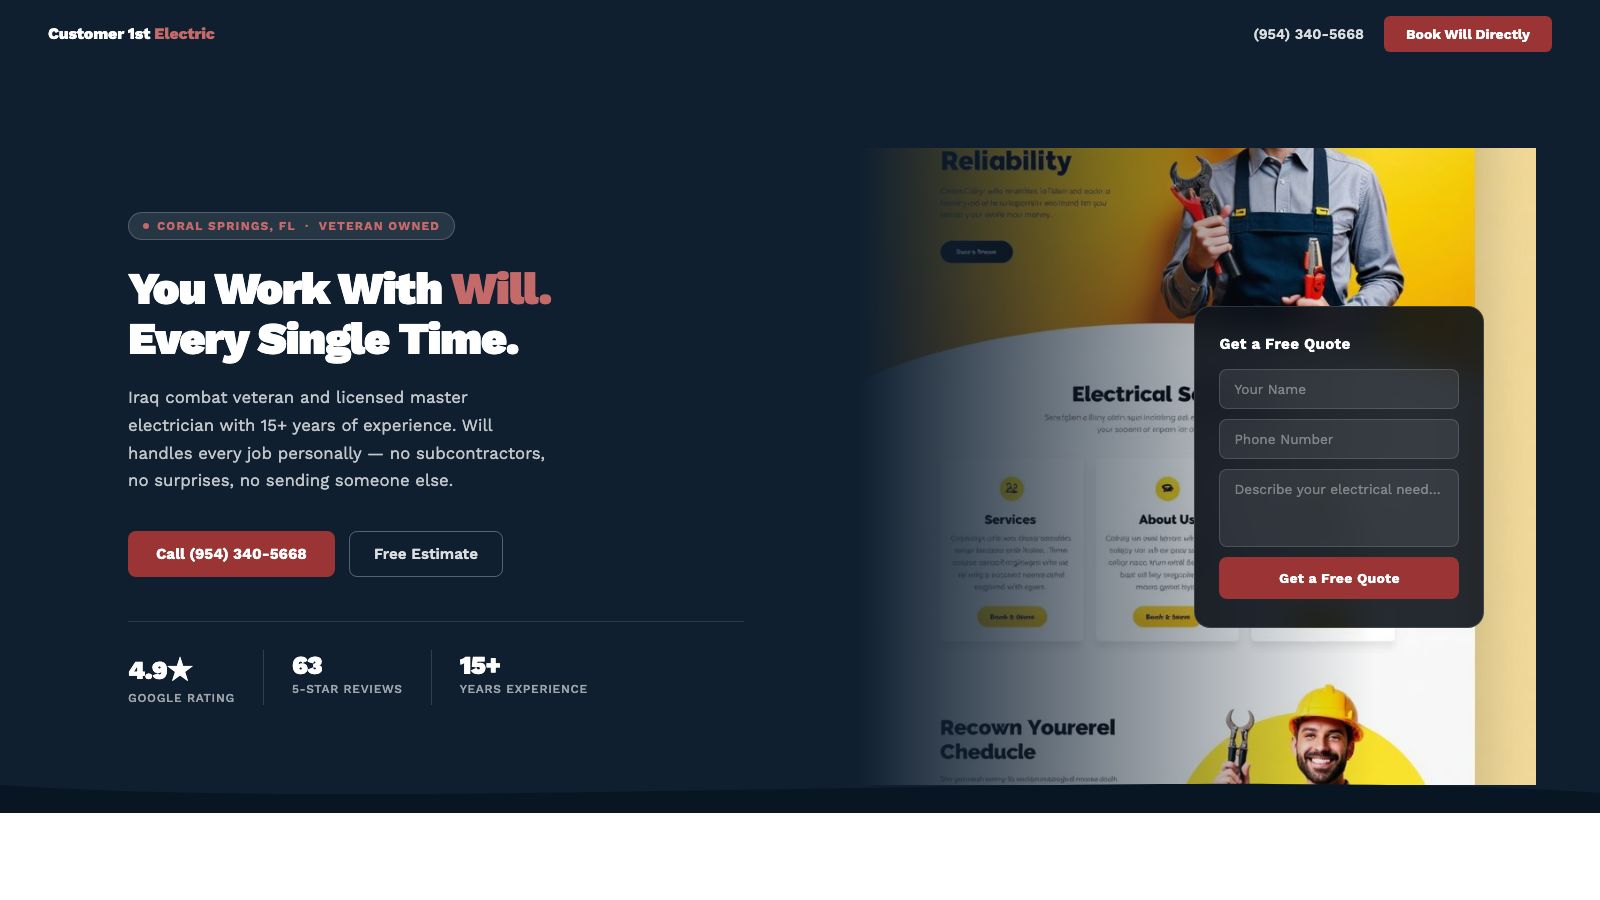
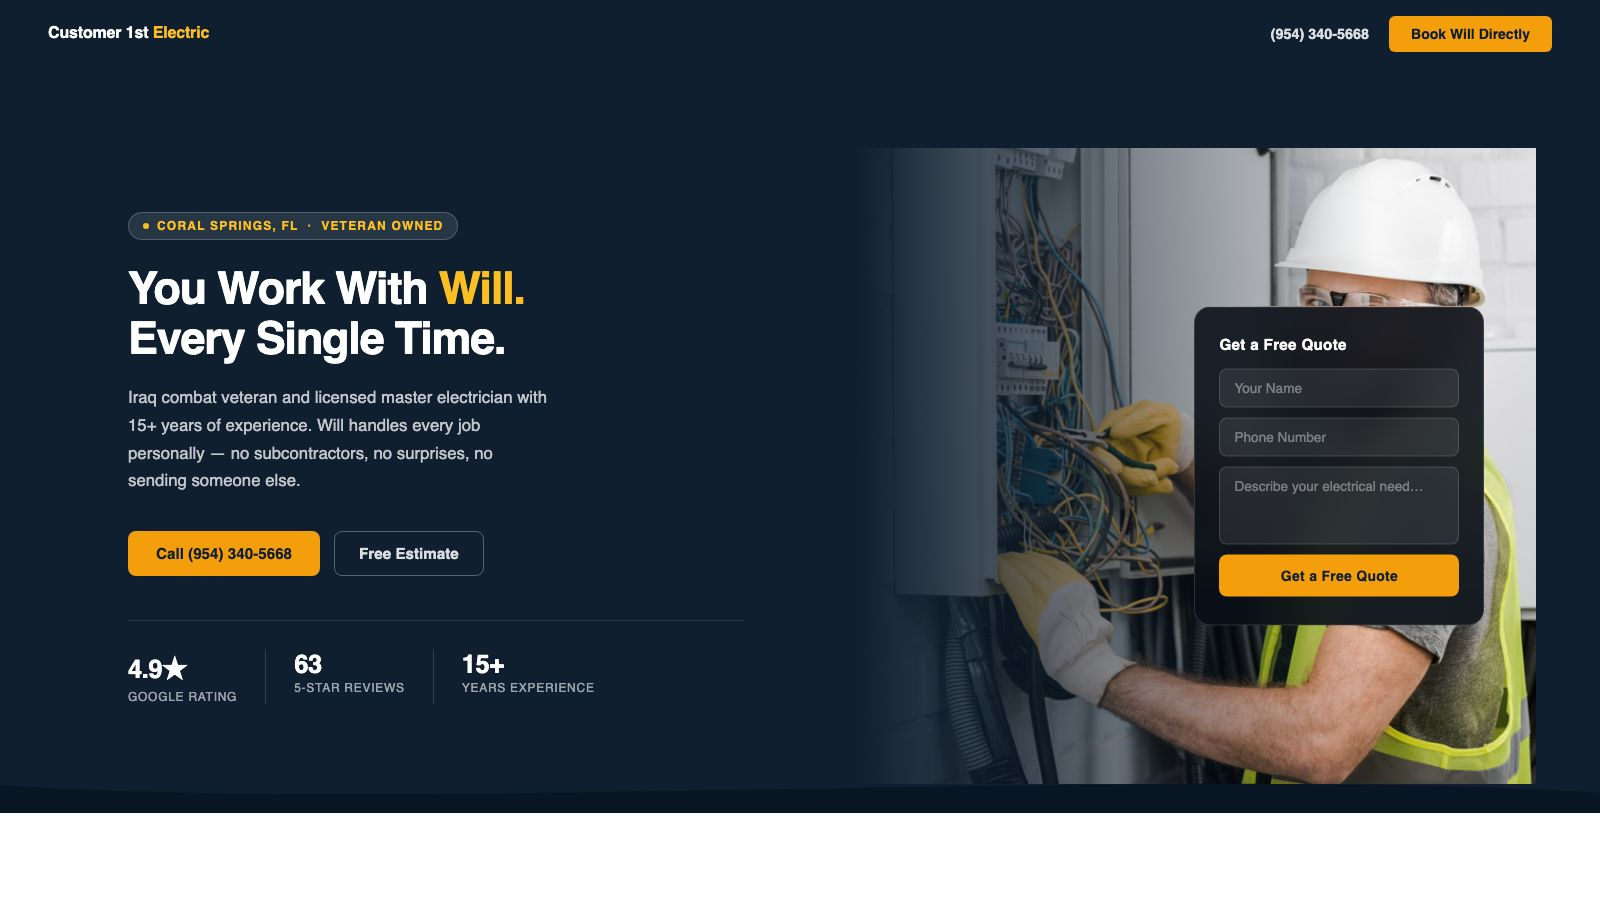
Retheme 3 electrician pages: amber/navy per inspo direction
- Accent color updated: red/blue → #f59e0b amber on all 3 pages
- Button text corrected to dark navy (yellow bg needs dark text)
- Hero + about images swapped from Inspo/ refs to actual stock photos
  (panel-circuit-breaker for hero, light-fixture-install for about)
- Promo strip text updated to dark on MG Electric
- Previews regenerated

diff --git a/p/mg-electric-lauderhill/index.html b/p/mg-electric-lauderhill/index.html
@@ -10,8 +10,8 @@
 *,*::before,*::after{box-sizing:border-box;margin:0;padding:0}
 :root{
   --navy:#0f2d4e;
-  --accent:#9b3535;
-  --accent-light:#c46a6a;
+  --accent:#f59e0b;
+  --accent-light:#fbbf24;
   --white:#fff;
   --off:#f6f8fa;
   --text:#1a2535;
@@ -27,7 +27,7 @@ nav{position:sticky;top:0;z-index:100;height:68px;background:var(--navy);display
 .nav-logo span{color:var(--accent-light)}
 .nav-right{display:flex;align-items:center;gap:20px}
 .nav-phone{color:rgba(255,255,255,.85);font-weight:600;font-size:.9rem;text-decoration:none}
-.nav-cta{background:var(--accent);color:var(--white);font-weight:700;font-size:.875rem;padding:10px 22px;border-radius:6px;text-decoration:none;white-space:nowrap}
+.nav-cta{background:var(--accent);color:#0f2d4e;font-weight:700;font-size:.875rem;padding:10px 22px;border-radius:6px;text-decoration:none;white-space:nowrap}
 
 /* HERO */
 .hero{height:calc(100vh - 68px);display:grid;grid-template-columns:1fr 1fr;overflow:hidden;position:relative;background:var(--navy)}
@@ -38,7 +38,7 @@ h1{font-size:clamp(2rem,3.4vw,2.8rem);font-weight:900;color:var(--white);line-he
 h1 em{font-style:normal;color:var(--accent-light)}
 .hero-sub{color:rgba(255,255,255,.75);font-size:1.05rem;line-height:1.65;max-width:420px;margin-bottom:36px}
 .hero-actions{display:flex;gap:14px;flex-wrap:wrap;margin-bottom:44px}
-.btn-primary{background:var(--accent);color:var(--white);font-weight:700;font-size:.95rem;padding:14px 28px;border-radius:8px;text-decoration:none}
+.btn-primary{background:var(--accent);color:#0f2d4e;font-weight:700;font-size:.95rem;padding:14px 28px;border-radius:8px;text-decoration:none}
 .btn-ghost{color:rgba(255,255,255,.85);font-weight:600;font-size:.95rem;text-decoration:none;border:1px solid rgba(255,255,255,.3);padding:13px 24px;border-radius:8px}
 .hero-stats{display:flex;gap:0;padding-top:28px;border-top:1px solid rgba(255,255,255,.12)}
 .stat{padding:0 28px 0 0;margin-right:28px;border-right:1px solid rgba(255,255,255,.15)}
@@ -53,7 +53,7 @@ h1 em{font-style:normal;color:var(--accent-light)}
 .hero-form-card input,.hero-form-card textarea{display:block;width:100%;box-sizing:border-box;background:rgba(255,255,255,.08);border:1px solid rgba(255,255,255,.15);border-radius:8px;padding:11px 14px;font-size:.85rem;color:#fff;font-family:inherit;margin-bottom:10px;outline:none}
 .hero-form-card input::placeholder,.hero-form-card textarea::placeholder{color:rgba(255,255,255,.38)}
 .hero-form-card textarea{resize:none;height:78px}
-.hero-form-card button{width:100%;background:var(--accent);color:#fff;border:none;border-radius:8px;padding:13px;font-size:.875rem;font-weight:700;cursor:pointer;font-family:inherit;letter-spacing:.02em}
+.hero-form-card button{width:100%;background:var(--accent);color:#0f2d4e;border:none;border-radius:8px;padding:13px;font-size:.875rem;font-weight:700;cursor:pointer;font-family:inherit;letter-spacing:.02em}
 .hero-wave{position:absolute;bottom:0;left:0;width:100%;line-height:0;z-index:3;pointer-events:none}
 .hero-wave svg{display:block;width:100%;height:48px}
 
@@ -78,13 +78,13 @@ section.alt{background:var(--off)}
 
 /* PROMO BANNER */
 .promo-strip{background:var(--accent);padding:14px 64px;display:flex;align-items:center;justify-content:center;gap:16px}
-.promo-strip p{color:var(--white);font-weight:700;font-size:.95rem}
-.promo-strip a{color:var(--white);font-weight:800;text-decoration:underline}
+.promo-strip p{color:#0f2d4e;font-weight:700;font-size:.95rem}
+.promo-strip a{color:#0f2d4e;font-weight:800;text-decoration:underline}
 
 /* SERVICES */
 .services-grid{display:grid;grid-template-columns:repeat(3,1fr);gap:20px;margin-top:48px}
 .service-card{background:var(--white);border:1px solid var(--line);border-radius:12px;padding:28px 24px}
-.service-icon{width:44px;height:44px;background:rgba(155,53,53,.1);border-radius:10px;display:flex;align-items:center;justify-content:center;margin-bottom:16px}
+.service-icon{width:44px;height:44px;background:rgba(245,158,11,.1);border-radius:10px;display:flex;align-items:center;justify-content:center;margin-bottom:16px}
 .service-icon svg{color:var(--accent)}
 .service-name{font-size:1rem;font-weight:700;color:var(--text);margin-bottom:8px}
 .service-desc{font-size:.9rem;color:var(--muted);line-height:1.6}
@@ -92,7 +92,7 @@ section.alt{background:var(--off)}
 /* ABOUT */
 .about-grid{display:grid;grid-template-columns:1fr 1fr;gap:64px;align-items:center;margin-top:48px}
 .about-photo{height:480px;border-radius:16px;overflow:hidden}
-.about-badge{display:inline-flex;align-items:center;gap:8px;background:rgba(155,53,53,.1);color:var(--accent);font-weight:700;font-size:.8rem;text-transform:uppercase;letter-spacing:.08em;padding:6px 14px;border-radius:99px;margin-bottom:20px}
+.about-badge{display:inline-flex;align-items:center;gap:8px;background:rgba(245,158,11,.1);color:var(--accent);font-weight:700;font-size:.8rem;text-transform:uppercase;letter-spacing:.08em;padding:6px 14px;border-radius:99px;margin-bottom:20px}
 .about-title{font-size:clamp(1.5rem,2.5vw,2rem);font-weight:900;color:var(--text);letter-spacing:-.02em;line-height:1.2;margin-bottom:16px}
 .about-body{font-size:.975rem;color:var(--muted);line-height:1.75;margin-bottom:24px}
 .cred-list{display:flex;flex-direction:column;gap:10px}
@@ -171,7 +171,7 @@ footer{background:var(--trust-bg);padding:48px 64px;display:grid;grid-template-c
     </div>
   </div>
   <div class="hero-right">
-    <img src="../../assets/samples/Electricians/Inspo/9367b709ebcbf9d77560efcea8117cc1.jpg" alt="Licensed electrician at work">
+    <img src="../../assets/samples/Electricians/electrician-working-on-electrical-panel-circuit-breaker-box.jpg" alt="Licensed electrician at work">
     <form class="hero-form-card" action="#" method="POST">
       <h3>Get a Free Quote</h3>
       <input type="text" name="name" placeholder="Your Name" autocomplete="off">
@@ -274,7 +274,7 @@ footer{background:var(--trust-bg);padding:48px 64px;display:grid;grid-template-c
       </ul>
     </div>
     <div class="about-photo">
-      <img src="../../assets/samples/Electricians/Inspo/fbc7be6e2fe019ed75af08f72ff185b1.jpg" alt="Electrician on the job" style="width:100%;height:100%;object-fit:cover;display:block;border-radius:16px">
+      <img src="../../assets/samples/Electricians/615df0fce4220.image.jpg" alt="Electrician on the job" style="width:100%;height:100%;object-fit:cover;display:block;border-radius:16px">
     </div>
   </div>
 </section>

diff --git a/p/customer-1st-electric-coral-springs/index.html b/p/customer-1st-electric-coral-springs/index.html
@@ -10,8 +10,8 @@
 *,*::before,*::after{box-sizing:border-box;margin:0;padding:0}
 :root{
   --navy:#0f1f30;
-  --accent:#9b3535;
-  --accent-light:#c46a6a;
+  --accent:#f59e0b;
+  --accent-light:#fbbf24;
   --white:#fff;
   --off:#f7f8fa;
   --text:#1a2535;
@@ -27,7 +27,7 @@ nav{position:sticky;top:0;z-index:100;height:68px;background:var(--navy);display
 .nav-logo span{color:var(--accent-light)}
 .nav-right{display:flex;align-items:center;gap:20px}
 .nav-phone{color:rgba(255,255,255,.85);font-weight:600;font-size:.9rem;text-decoration:none}
-.nav-cta{background:var(--accent);color:var(--white);font-weight:700;font-size:.875rem;padding:10px 22px;border-radius:6px;text-decoration:none;white-space:nowrap}
+.nav-cta{background:var(--accent);color:#0f1f30;font-weight:700;font-size:.875rem;padding:10px 22px;border-radius:6px;text-decoration:none;white-space:nowrap}
 
 /* HERO */
 .hero{height:calc(100vh - 68px);display:grid;grid-template-columns:1fr 1fr;overflow:hidden;position:relative;background:var(--navy)}
@@ -38,7 +38,7 @@ h1{font-size:clamp(2rem,3.4vw,2.8rem);font-weight:900;color:var(--white);line-he
 h1 em{font-style:normal;color:var(--accent-light)}
 .hero-sub{color:rgba(255,255,255,.75);font-size:1.05rem;line-height:1.65;max-width:420px;margin-bottom:36px}
 .hero-actions{display:flex;gap:14px;flex-wrap:wrap;margin-bottom:44px}
-.btn-primary{background:var(--accent);color:var(--white);font-weight:700;font-size:.95rem;padding:14px 28px;border-radius:8px;text-decoration:none}
+.btn-primary{background:var(--accent);color:#0f1f30;font-weight:700;font-size:.95rem;padding:14px 28px;border-radius:8px;text-decoration:none}
 .btn-ghost{color:rgba(255,255,255,.85);font-weight:600;font-size:.95rem;text-decoration:none;border:1px solid rgba(255,255,255,.3);padding:13px 24px;border-radius:8px}
 .hero-stats{display:flex;gap:0;padding-top:28px;border-top:1px solid rgba(255,255,255,.12)}
 .stat{padding:0 28px 0 0;margin-right:28px;border-right:1px solid rgba(255,255,255,.15)}
@@ -53,7 +53,7 @@ h1 em{font-style:normal;color:var(--accent-light)}
 .hero-form-card input,.hero-form-card textarea{display:block;width:100%;box-sizing:border-box;background:rgba(255,255,255,.08);border:1px solid rgba(255,255,255,.15);border-radius:8px;padding:11px 14px;font-size:.85rem;color:#fff;font-family:inherit;margin-bottom:10px;outline:none}
 .hero-form-card input::placeholder,.hero-form-card textarea::placeholder{color:rgba(255,255,255,.38)}
 .hero-form-card textarea{resize:none;height:78px}
-.hero-form-card button{width:100%;background:var(--accent);color:#fff;border:none;border-radius:8px;padding:13px;font-size:.875rem;font-weight:700;cursor:pointer;font-family:inherit;letter-spacing:.02em}
+.hero-form-card button{width:100%;background:var(--accent);color:#0f1f30;border:none;border-radius:8px;padding:13px;font-size:.875rem;font-weight:700;cursor:pointer;font-family:inherit;letter-spacing:.02em}
 .hero-wave{position:absolute;bottom:0;left:0;width:100%;line-height:0;z-index:3;pointer-events:none}
 .hero-wave svg{display:block;width:100%;height:48px}
 
@@ -80,7 +80,7 @@ section.alt{background:var(--off)}
 .services-grid{display:grid;grid-template-columns:repeat(3,1fr);gap:20px;margin-top:48px}
 .service-card{background:var(--white);border:1px solid var(--line);border-radius:12px;padding:28px 24px}
 .service-card.alt-bg{background:var(--off)}
-.service-icon{width:44px;height:44px;background:rgba(155,53,53,.1);border-radius:10px;display:flex;align-items:center;justify-content:center;margin-bottom:16px}
+.service-icon{width:44px;height:44px;background:rgba(245,158,11,.1);border-radius:10px;display:flex;align-items:center;justify-content:center;margin-bottom:16px}
 .service-icon svg{color:var(--accent)}
 .service-name{font-size:1rem;font-weight:700;color:var(--text);margin-bottom:8px}
 .service-desc{font-size:.9rem;color:var(--muted);line-height:1.6}
@@ -89,7 +89,7 @@ section.alt{background:var(--off)}
 .about-grid{display:grid;grid-template-columns:1fr 1fr;gap:64px;align-items:center;margin-top:48px}
 .about-photo{height:480px;border-radius:16px;overflow:hidden}
 .about-content{}
-.about-badge{display:inline-flex;align-items:center;gap:8px;background:rgba(155,53,53,.1);color:var(--accent);font-weight:700;font-size:.8rem;text-transform:uppercase;letter-spacing:.08em;padding:6px 14px;border-radius:99px;margin-bottom:20px}
+.about-badge{display:inline-flex;align-items:center;gap:8px;background:rgba(245,158,11,.1);color:var(--accent);font-weight:700;font-size:.8rem;text-transform:uppercase;letter-spacing:.08em;padding:6px 14px;border-radius:99px;margin-bottom:20px}
 .about-title{font-size:clamp(1.5rem,2.5vw,2rem);font-weight:900;color:var(--text);letter-spacing:-.02em;line-height:1.2;margin-bottom:16px}
 .about-body{font-size:.975rem;color:var(--muted);line-height:1.75;margin-bottom:24px}
 .cred-list{display:flex;flex-direction:column;gap:10px}
@@ -163,7 +163,7 @@ footer{background:var(--trust-bg);padding:48px 64px;display:grid;grid-template-c
     </div>
   </div>
   <div class="hero-right">
-    <img src="../../assets/samples/Electricians/Inspo/9367b709ebcbf9d77560efcea8117cc1.jpg" alt="Licensed electrician at work">
+    <img src="../../assets/samples/Electricians/electrician-working-on-electrical-panel-circuit-breaker-box.jpg" alt="Licensed electrician at work">
     <form class="hero-form-card" action="#" method="POST">
       <h3>Get a Free Quote</h3>
       <input type="text" name="name" placeholder="Your Name" autocomplete="off">
@@ -253,7 +253,7 @@ footer{background:var(--trust-bg);padding:48px 64px;display:grid;grid-template-c
 <section class="alt">
   <div class="about-grid">
     <div class="about-photo">
-      <img src="../../assets/samples/Electricians/Inspo/fbc7be6e2fe019ed75af08f72ff185b1.jpg" alt="Electrician on the job" style="width:100%;height:100%;object-fit:cover;display:block;border-radius:16px">
+      <img src="../../assets/samples/Electricians/615df0fce4220.image.jpg" alt="Electrician on the job" style="width:100%;height:100%;object-fit:cover;display:block;border-radius:16px">
     </div>
     <div class="about-content">
       <div class="about-badge">About Will</div>

diff --git a/p/custom-electrical-tamarac/index.html b/p/custom-electrical-tamarac/index.html
@@ -10,8 +10,8 @@
 *,*::before,*::after{box-sizing:border-box;margin:0;padding:0}
 :root{
   --navy:#1c1c2e;
-  --accent:#2563a8;
-  --accent-light:#60a5fa;
+  --accent:#f59e0b;
+  --accent-light:#fbbf24;
   --white:#fff;
   --off:#f6f8fb;
   --text:#1a1f2e;
@@ -27,7 +27,7 @@ nav{position:sticky;top:0;z-index:100;height:68px;background:var(--navy);display
 .nav-logo span{color:var(--accent-light)}
 .nav-right{display:flex;align-items:center;gap:20px}
 .nav-phone{color:rgba(255,255,255,.85);font-weight:600;font-size:.9rem;text-decoration:none}
-.nav-cta{background:var(--accent);color:var(--white);font-weight:700;font-size:.875rem;padding:10px 22px;border-radius:6px;text-decoration:none;white-space:nowrap}
+.nav-cta{background:var(--accent);color:#1c1c2e;font-weight:700;font-size:.875rem;padding:10px 22px;border-radius:6px;text-decoration:none;white-space:nowrap}
 
 /* HERO */
 .hero{height:calc(100vh - 68px);display:grid;grid-template-columns:1fr 1fr;overflow:hidden;position:relative;background:var(--navy)}
@@ -38,7 +38,7 @@ h1{font-size:clamp(2rem,3.4vw,2.8rem);font-weight:900;color:var(--white);line-he
 h1 em{font-style:normal;color:var(--accent-light)}
 .hero-sub{color:rgba(255,255,255,.75);font-size:1.05rem;line-height:1.65;max-width:420px;margin-bottom:36px}
 .hero-actions{display:flex;gap:14px;flex-wrap:wrap;margin-bottom:44px}
-.btn-primary{background:var(--accent);color:var(--white);font-weight:700;font-size:.95rem;padding:14px 28px;border-radius:8px;text-decoration:none}
+.btn-primary{background:var(--accent);color:#1c1c2e;font-weight:700;font-size:.95rem;padding:14px 28px;border-radius:8px;text-decoration:none}
 .btn-ghost{color:rgba(255,255,255,.85);font-weight:600;font-size:.95rem;text-decoration:none;border:1px solid rgba(255,255,255,.3);padding:13px 24px;border-radius:8px}
 .hero-stats{display:flex;gap:0;padding-top:28px;border-top:1px solid rgba(255,255,255,.12)}
 .stat{padding:0 28px 0 0;margin-right:28px;border-right:1px solid rgba(255,255,255,.15)}
@@ -53,7 +53,7 @@ h1 em{font-style:normal;color:var(--accent-light)}
 .hero-form-card input,.hero-form-card textarea{display:block;width:100%;box-sizing:border-box;background:rgba(255,255,255,.08);border:1px solid rgba(255,255,255,.15);border-radius:8px;padding:11px 14px;font-size:.85rem;color:#fff;font-family:inherit;margin-bottom:10px;outline:none}
 .hero-form-card input::placeholder,.hero-form-card textarea::placeholder{color:rgba(255,255,255,.38)}
 .hero-form-card textarea{resize:none;height:78px}
-.hero-form-card button{width:100%;background:var(--accent);color:#fff;border:none;border-radius:8px;padding:13px;font-size:.875rem;font-weight:700;cursor:pointer;font-family:inherit;letter-spacing:.02em}
+.hero-form-card button{width:100%;background:var(--accent);color:#1c1c2e;border:none;border-radius:8px;padding:13px;font-size:.875rem;font-weight:700;cursor:pointer;font-family:inherit;letter-spacing:.02em}
 .hero-wave{position:absolute;bottom:0;left:0;width:100%;line-height:0;z-index:3;pointer-events:none}
 .hero-wave svg{display:block;width:100%;height:48px}
 
@@ -80,7 +80,7 @@ section.alt{background:var(--off)}
 .services-grid{display:grid;grid-template-columns:repeat(3,1fr);gap:20px;margin-top:48px}
 .service-card{background:var(--white);border:1px solid var(--line);border-radius:12px;padding:28px 24px}
 .service-card.alt-bg{background:var(--off)}
-.service-icon{width:44px;height:44px;background:rgba(37,99,168,.1);border-radius:10px;display:flex;align-items:center;justify-content:center;margin-bottom:16px}
+.service-icon{width:44px;height:44px;background:rgba(245,158,11,.1);border-radius:10px;display:flex;align-items:center;justify-content:center;margin-bottom:16px}
 .service-icon svg{color:var(--accent)}
 .service-name{font-size:1rem;font-weight:700;color:var(--text);margin-bottom:8px}
 .service-desc{font-size:.9rem;color:var(--muted);line-height:1.6}
@@ -93,7 +93,7 @@ section.alt{background:var(--off)}
 /* ABOUT */
 .about-grid{display:grid;grid-template-columns:1fr 1fr;gap:64px;align-items:center;margin-top:48px}
 .about-photo{height:480px;border-radius:16px;overflow:hidden}
-.about-badge{display:inline-flex;align-items:center;gap:8px;background:rgba(37,99,168,.1);color:var(--accent);font-weight:700;font-size:.8rem;text-transform:uppercase;letter-spacing:.08em;padding:6px 14px;border-radius:99px;margin-bottom:20px}
+.about-badge{display:inline-flex;align-items:center;gap:8px;background:rgba(245,158,11,.1);color:var(--accent);font-weight:700;font-size:.8rem;text-transform:uppercase;letter-spacing:.08em;padding:6px 14px;border-radius:99px;margin-bottom:20px}
 .about-title{font-size:clamp(1.5rem,2.5vw,2rem);font-weight:900;color:var(--text);letter-spacing:-.02em;line-height:1.2;margin-bottom:16px}
 .about-body{font-size:.975rem;color:var(--muted);line-height:1.75;margin-bottom:24px}
 .cred-list{display:flex;flex-direction:column;gap:10px}
@@ -167,7 +167,7 @@ footer{background:var(--trust-bg);padding:48px 64px;display:grid;grid-template-c
     </div>
   </div>
   <div class="hero-right">
-    <img src="../../assets/samples/Electricians/Inspo/9367b709ebcbf9d77560efcea8117cc1.jpg" alt="Licensed electrician at work">
+    <img src="../../assets/samples/Electricians/electrician-working-on-electrical-panel-circuit-breaker-box.jpg" alt="Licensed electrician at work">
     <form class="hero-form-card" action="#" method="POST">
       <h3>Get a Free Quote</h3>
       <input type="text" name="name" placeholder="Your Name" autocomplete="off">
@@ -265,7 +265,7 @@ footer{background:var(--trust-bg);padding:48px 64px;display:grid;grid-template-c
 <section class="alt">
   <div class="about-grid">
     <div class="about-photo">
-      <img src="../../assets/samples/Electricians/Inspo/fbc7be6e2fe019ed75af08f72ff185b1.jpg" alt="Electrician on the job" style="width:100%;height:100%;object-fit:cover;display:block;border-radius:16px">
+      <img src="../../assets/samples/Electricians/615df0fce4220.image.jpg" alt="Electrician on the job" style="width:100%;height:100%;object-fit:cover;display:block;border-radius:16px">
     </div>
     <div class="about-content">
       <div class="about-badge">About Joey</div>
